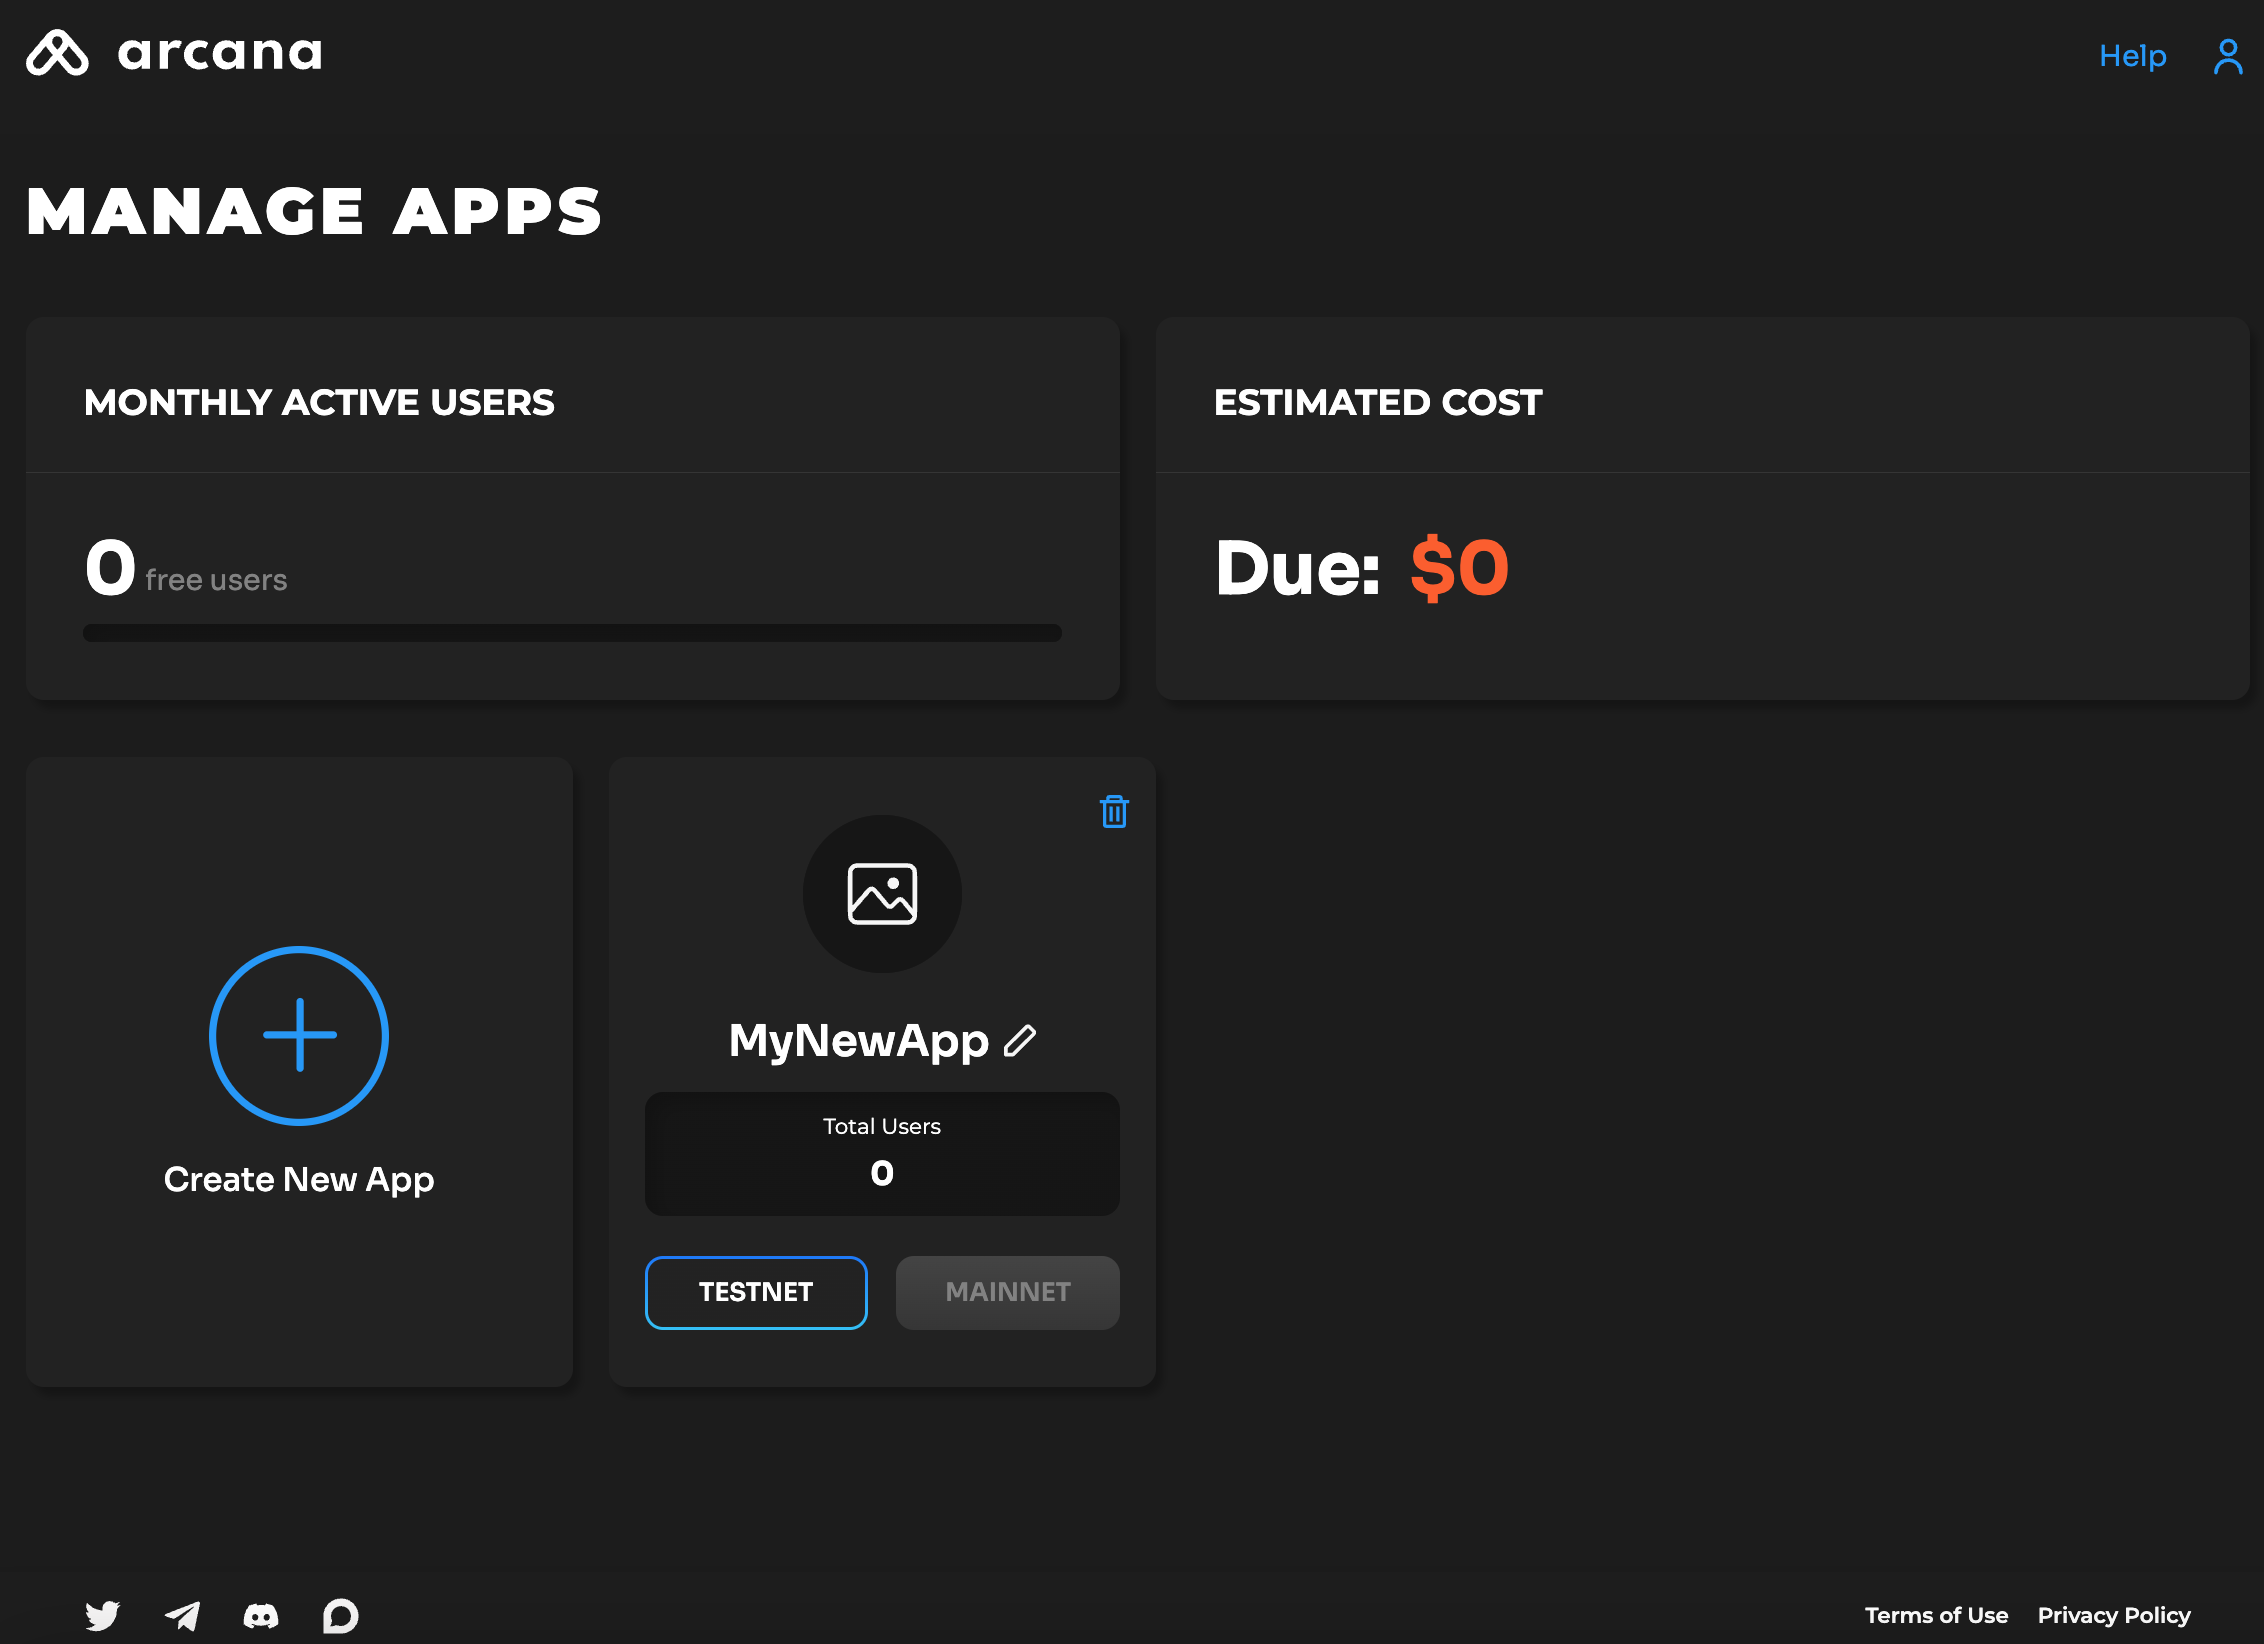
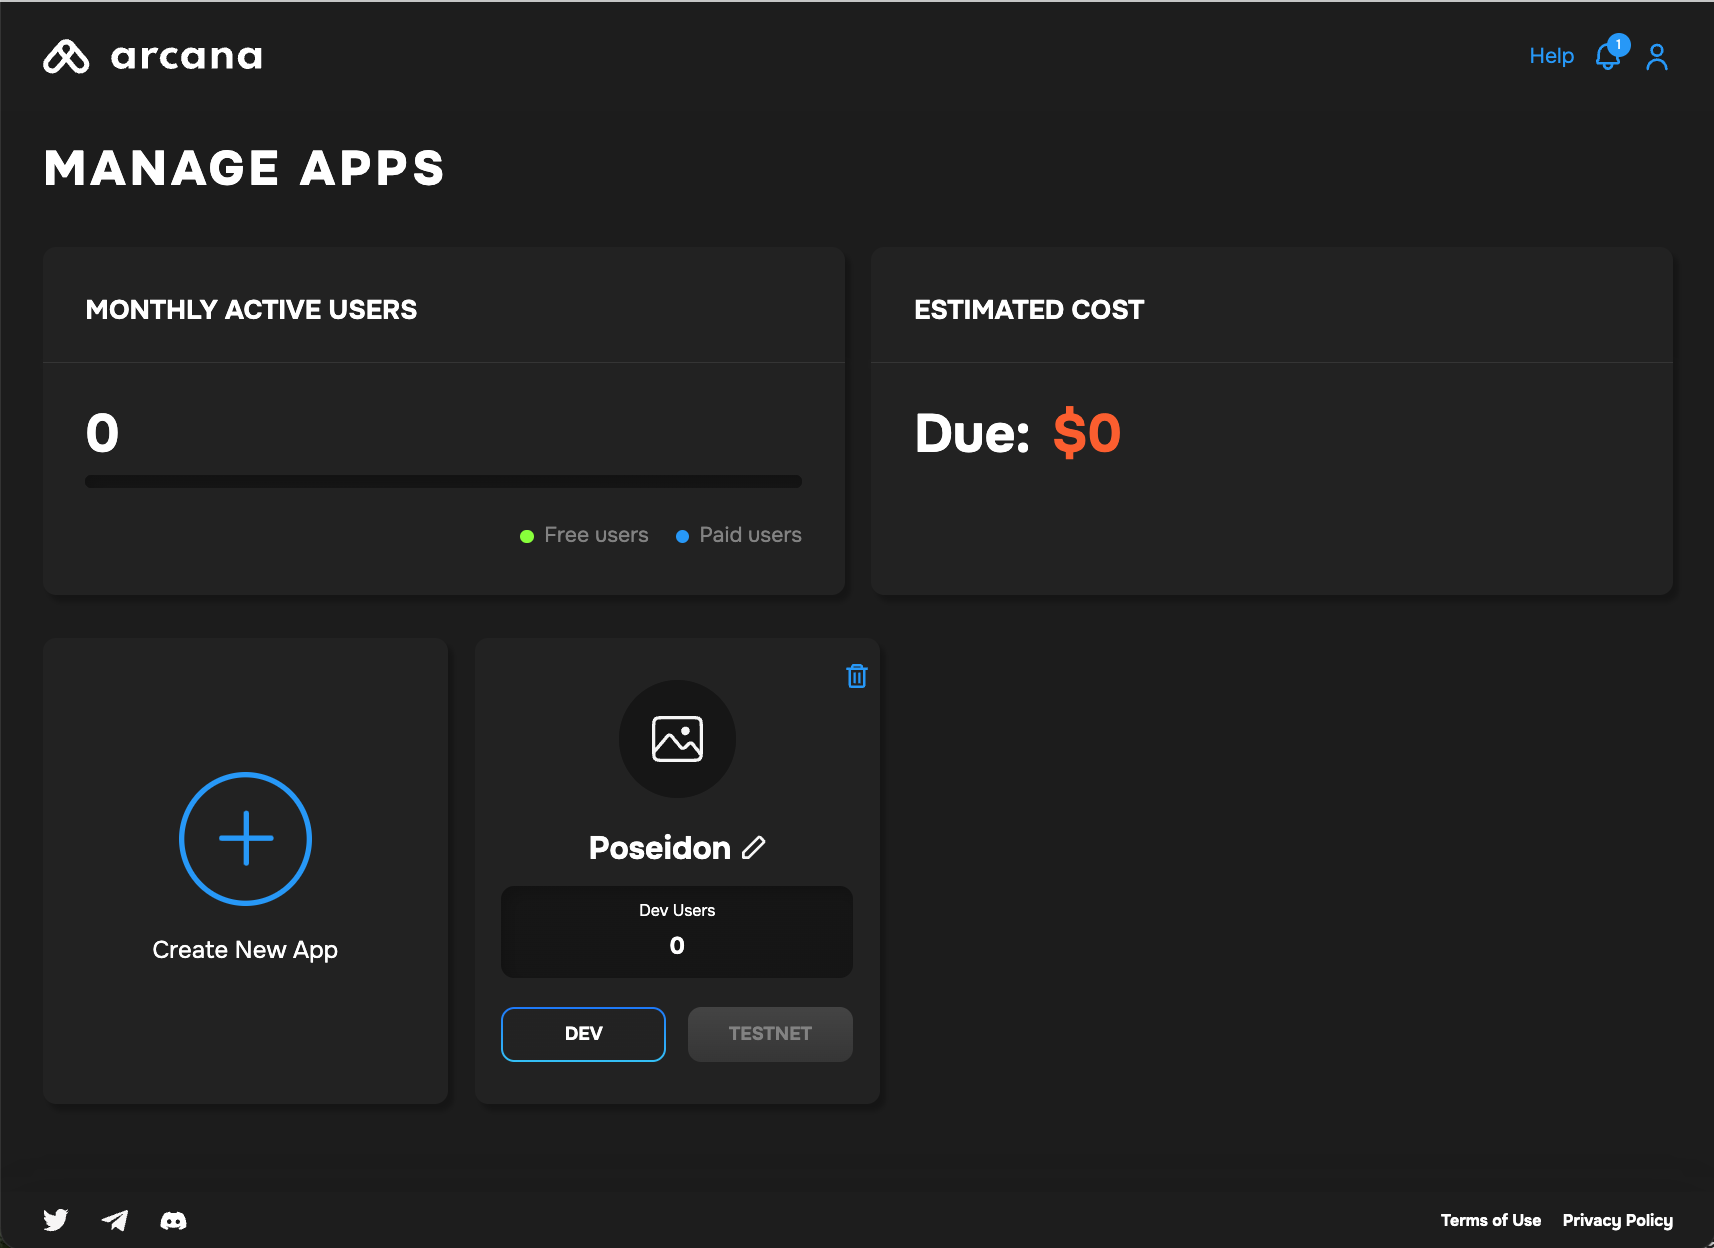
Fix: #AR-6292 create new app screenshot updates

diff --git a/includes/text-snippets/db_register_dapp.md b/includes/text-snippets/db_register_dapp.md
@@ -4,7 +4,9 @@ All the apps registered against the developer's account show up as cards in the 
 
 Click on the *Create New App* wizard, the first card on the *Manage Apps* screen, to register a new app. <img class="an-screenshots-noeffects" src="/img/icons/dashboard_newappwizard.png" alt="create new app wizard icon" width="10%"/> 
 
-Click the wizard and specify the name of the app to be registered in the **App Name** field. When you click **Create**, the app is registered for using the {{config.extra.arcana.company_name}} Testnet by default.
+Click the wizard and specify the name of the app to be registered in the **App Name** field. Also, select a default chain for the app. This is the chain that is selected as the default chain in the wallet UI once a user logs into the application. 
+
+When you click **Create**, the app is registered for using the {{config.extra.arcana.company_name}} Testnet by default.
 
 ![Register dApp](/img/an_db_create_newapp_anim.gif){.an-screenshots}
 
